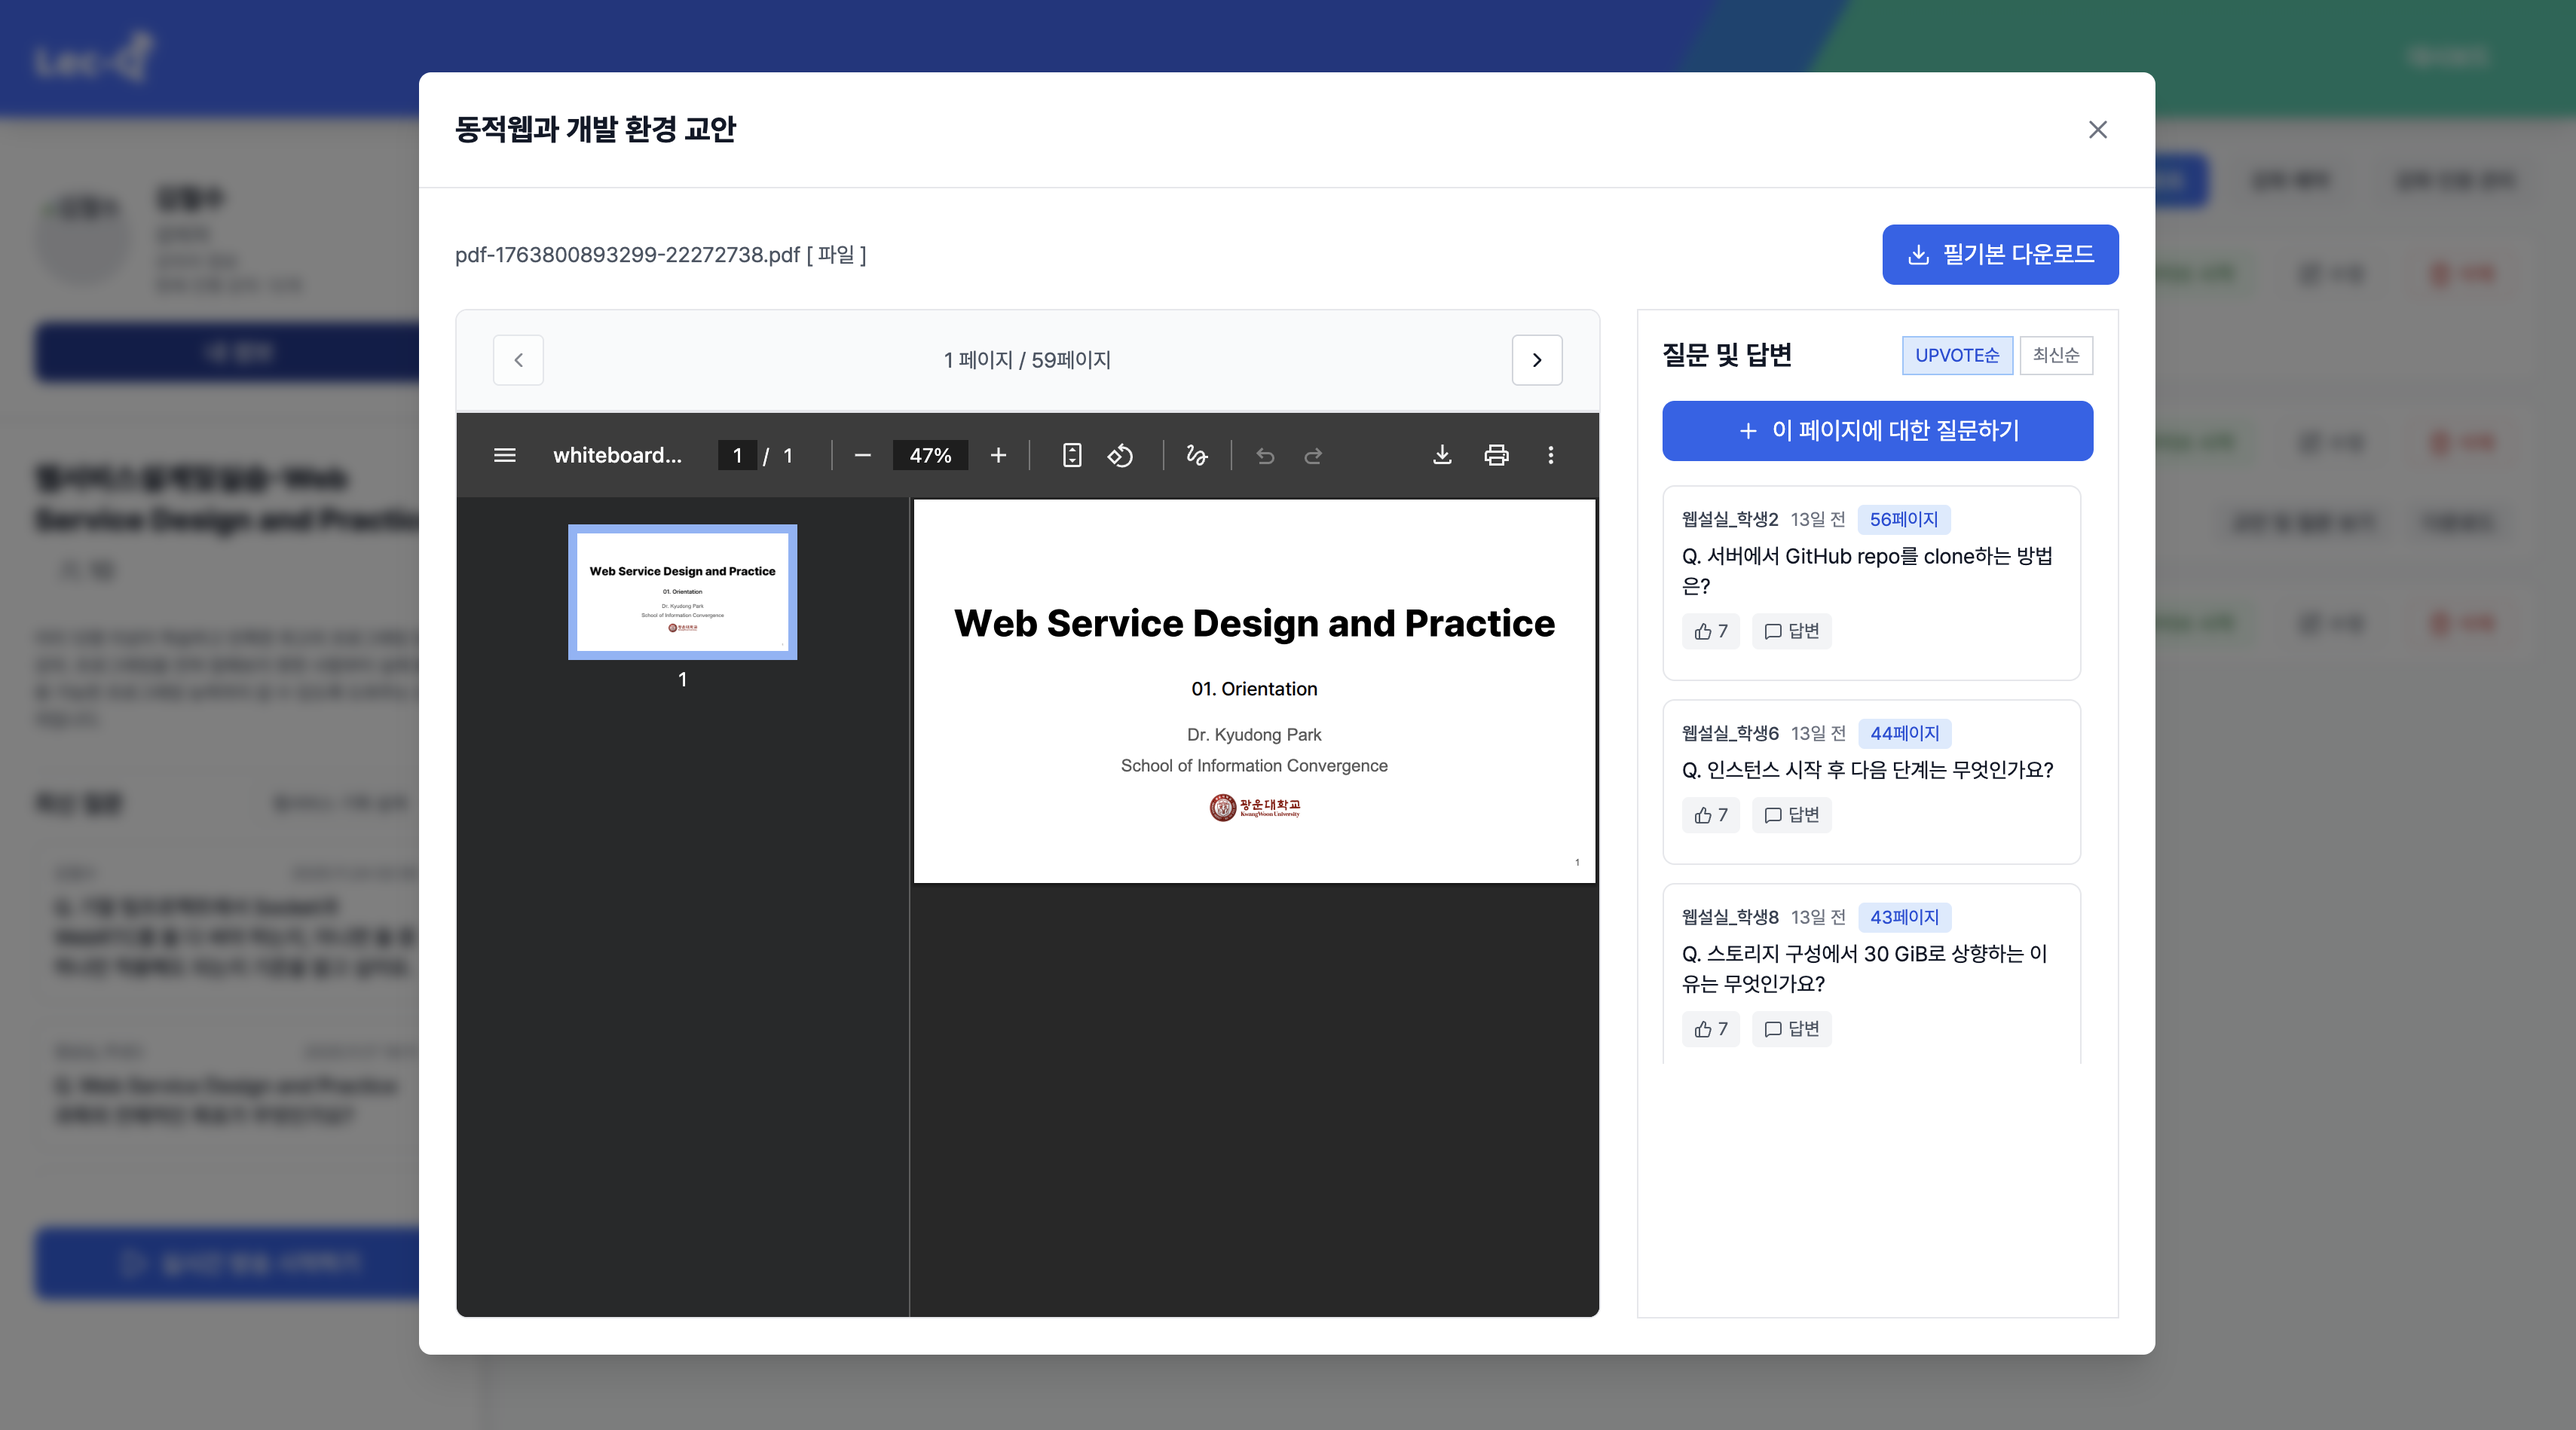
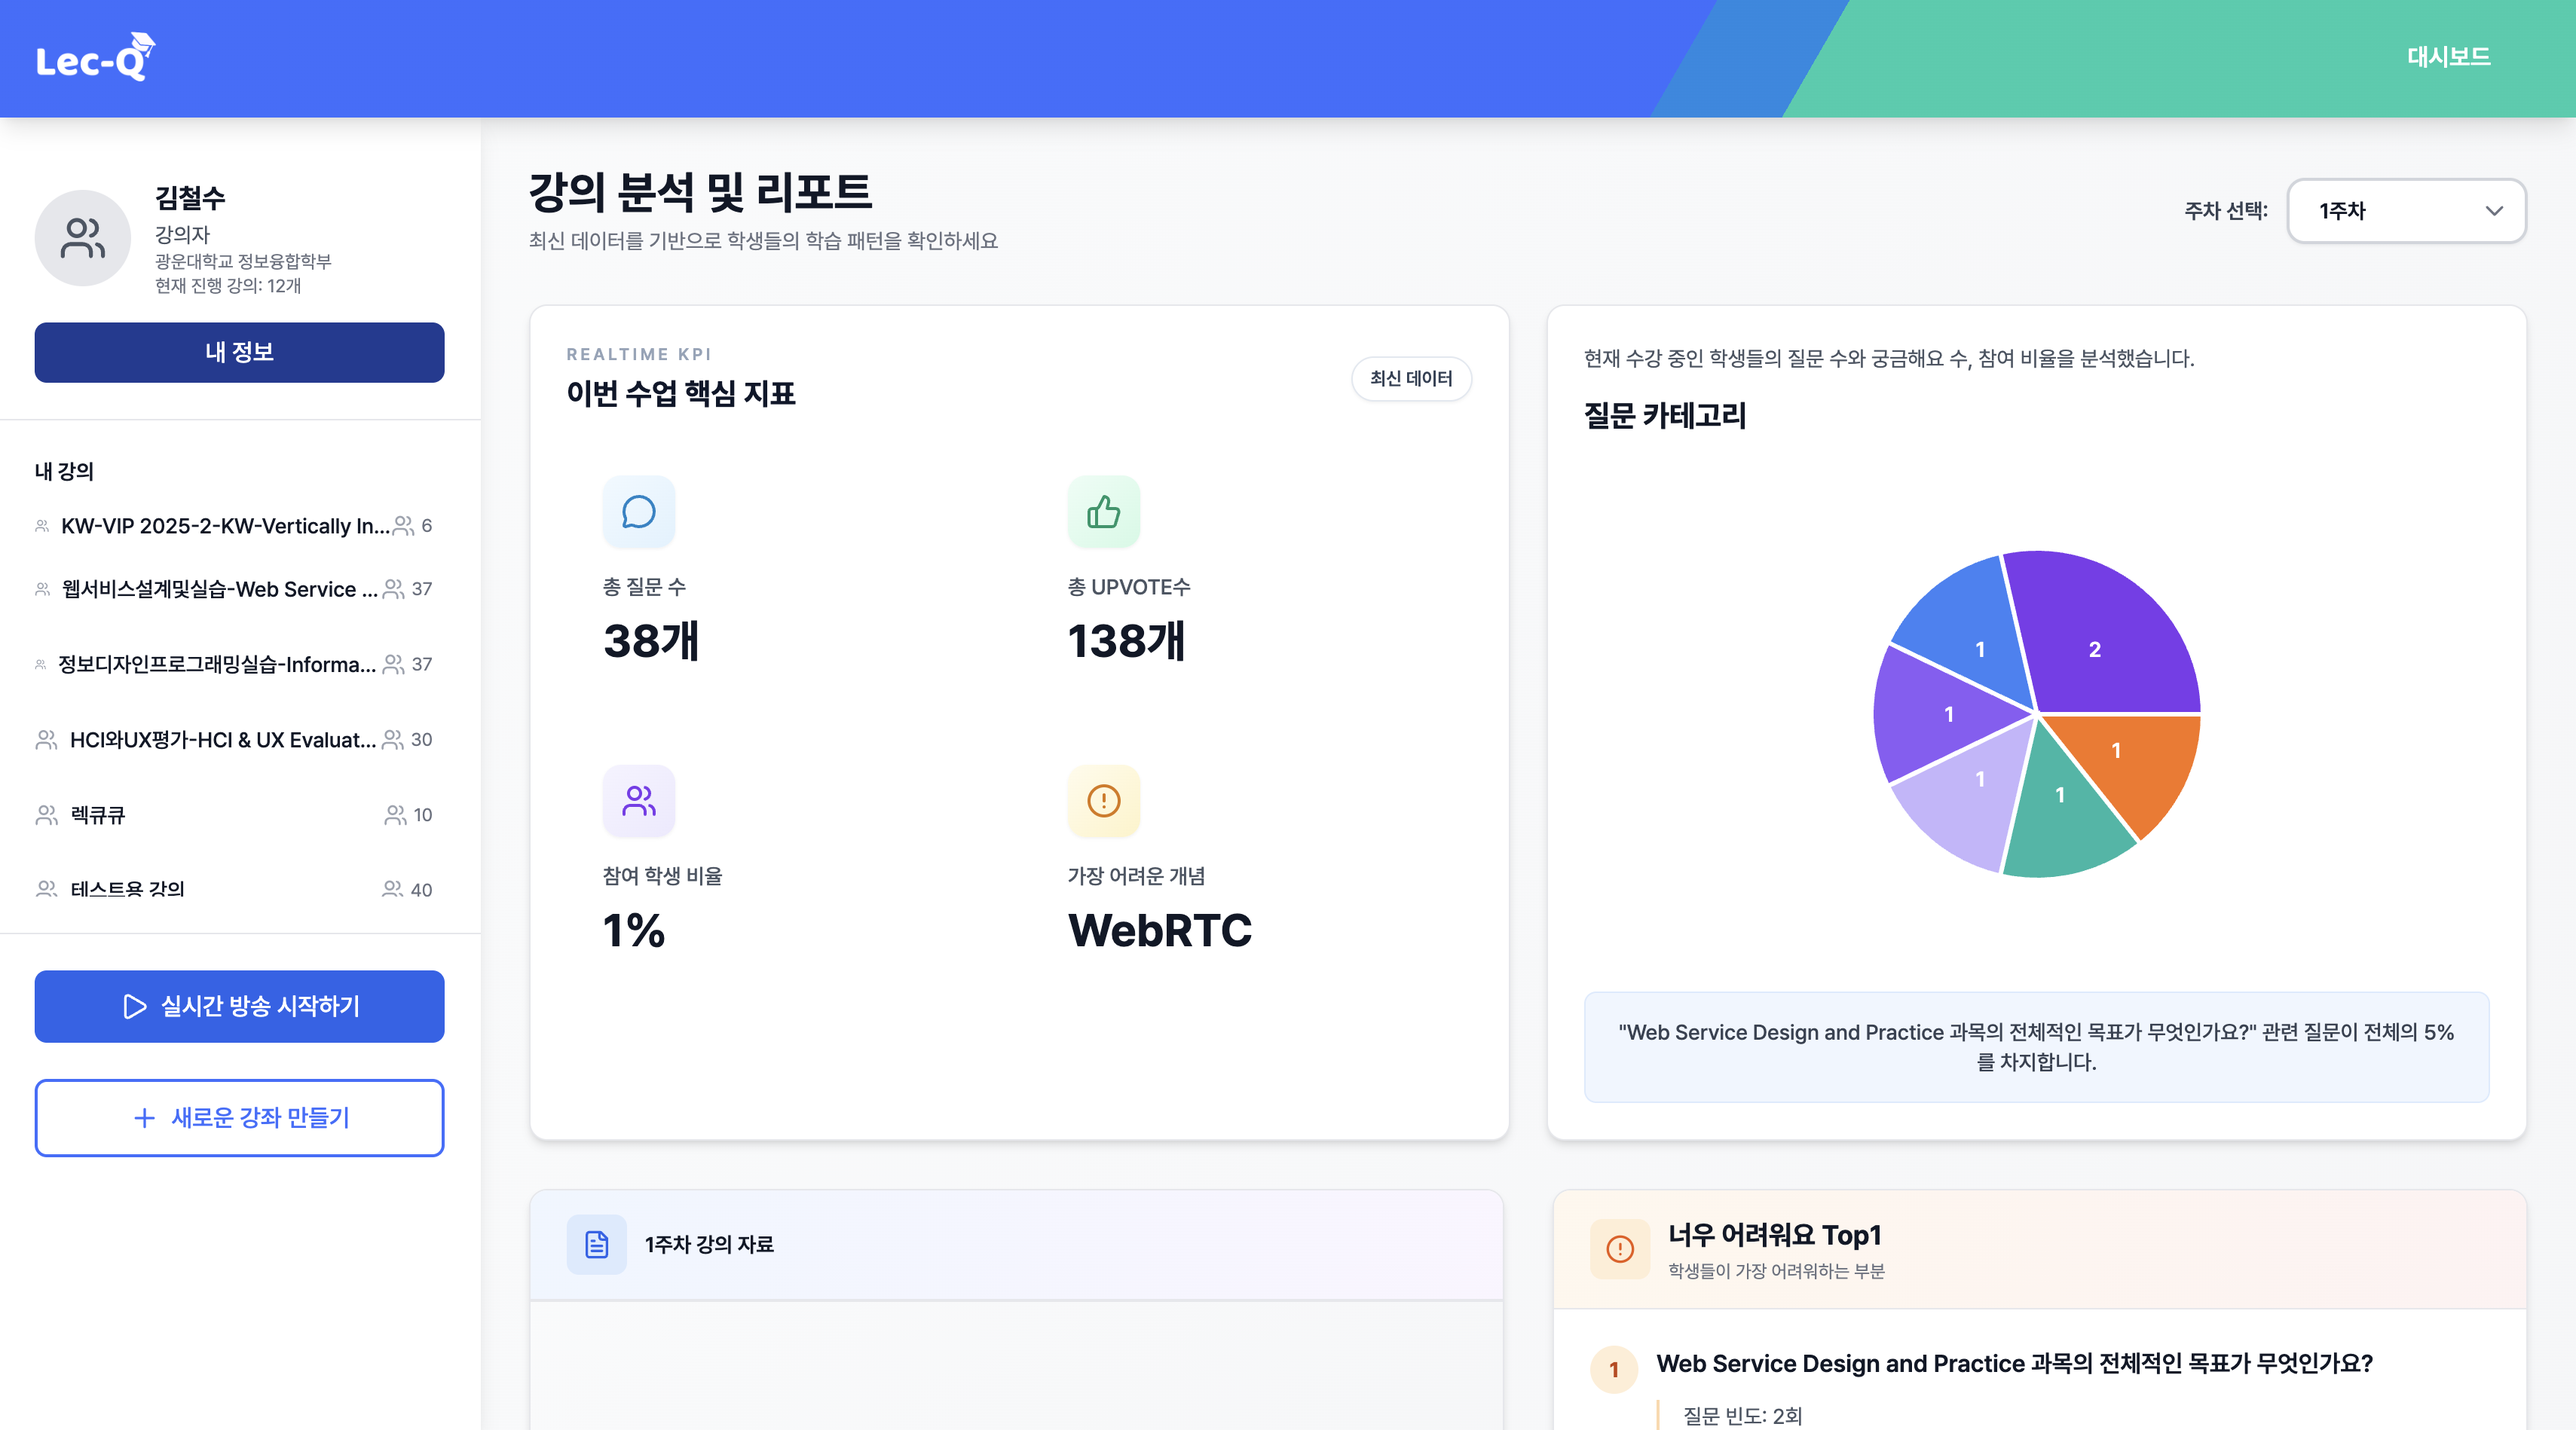
🎨: 랜딩 슬라이드 2 디자인 보완

diff --git a/frontend/src/pages/common/LandingPage.tsx b/frontend/src/pages/common/LandingPage.tsx
@@ -271,46 +271,62 @@ const LandingPage: React.FC = () => {
               {/* 위: 특징 4개 */}
               <div className="flex-1 flex items-center">
                 <div className="w-full max-w-7xl mx-auto px-4 sm:px-6 lg:px-8 py-10">
-                  <div className="grid grid-cols-2 md:grid-cols-4 gap-8 text-center">
+                  <div className="grid grid-cols-1 sm:grid-cols-2 lg:grid-cols-4 gap-6 lg:gap-8">
                     {[
                       {
                         title: "자동 필기 요약",
                         desc: "강의 내용을 AI로 요약",
                         icon: FileText,
+                        color: "blue",
                       },
                       {
                         title: "실시간 질문·AI 답변",
                         desc: "모르는 건 바로 해결",
                         icon: MessageCircle,
+                        color: "green",
                       },
                       {
                         title: "데이터 기반 학습 분석",
                         desc: "학습 패턴 시각화",
                         icon: BarChart3,
+                        color: "purple",
                       },
                       {
                         title: "강의자 대시보드 지원",
                         desc: "진행도와 이슈 관리",
                         icon: Target,
+                        color: "orange",
                       },
                     ].map((item, idx) => {
                       const IconComponent = item.icon;
+                      const colorClasses = {
+                        blue: "bg-blue-50 border-blue-100 text-blue-600",
+                        green: "bg-green-50 border-green-100 text-green-600",
+                        purple:
+                          "bg-purple-50 border-purple-100 text-purple-600",
+                        orange:
+                          "bg-orange-50 border-orange-100 text-orange-600",
+                      };
+                      const iconBgClass =
+                        colorClasses[item.color as keyof typeof colorClasses] ||
+                        colorClasses.blue;
+
                       return (
                         <div
                           key={idx}
-                          className="flex items-start md:items-center md:flex-col gap-4 md:gap-3"
+                          className="group relative bg-white rounded-xl p-6 border border-gray-100 hover:border-gray-200 hover:shadow-lg transition-all duration-300 flex flex-col items-center text-center"
                         >
-                          <div className="shrink-0 w-12 h-12 rounded-full bg-blue-100 flex items-center justify-center text-blue-600 mx-auto md:mx-auto">
-                            <IconComponent className="w-6 h-6" />
+                          <div
+                            className={`w-16 h-16 rounded-2xl ${iconBgClass} flex items-center justify-center mb-4 group-hover:scale-110 transition-transform duration-300 shadow-sm`}
+                          >
+                            <IconComponent className="w-8 h-8" />
                           </div>
-                          <div className="text-left md:text-center">
-                            <div className="text-base font-semibold text-gray-900 mb-2">
-                              {item.title}
-                            </div>
-                            <div className="text-sm text-gray-500 leading-relaxed">
-                              {item.desc}
-                            </div>
-                          </div>
+                          <h3 className="text-lg font-bold text-gray-900 mb-2">
+                            {item.title}
+                          </h3>
+                          <p className="text-sm text-gray-600 leading-relaxed">
+                            {item.desc}
+                          </p>
                         </div>
                       );
                     })}
@@ -335,12 +351,13 @@ const LandingPage: React.FC = () => {
                     ].map((img, i) => (
                       <div
                         key={i}
-                        className="bg-gray-200 rounded-md h-28 md:h-36 overflow-hidden"
+                        className="bg-gray-100 rounded-lg overflow-hidden shadow-md hover:shadow-lg transition-shadow duration-200 flex items-center justify-center"
+                        style={{ aspectRatio: "16/9", minHeight: "200px" }}
                       >
                         <img
                           src={img.src}
                           alt={img.alt}
-                          className="w-full h-full object-cover"
+                          className="w-full h-full object-contain"
                         />
                       </div>
                     ))}
@@ -348,11 +365,11 @@ const LandingPage: React.FC = () => {
                   <div className="grid grid-cols-1 md:grid-cols-3 gap-8 mt-8 text-sm md:text-base text-gray-700">
                     <div>
                       <div className="font-bold mb-2 md:mb-3 text-lg">
-                        현장 참여도 실시간 확인
+                        교안 필기 자동 감지
                       </div>
                       <p className="text-gray-500 leading-relaxed">
-                        학생들의 참여도와 이해도를 대시보드에서 즉시 확인할 수
-                        있어요.
+                        AI가 교안 필기를 자동으로 감지하여 학습 집중도를
+                        향상시켜요.
                       </p>
                     </div>
                     <div>
